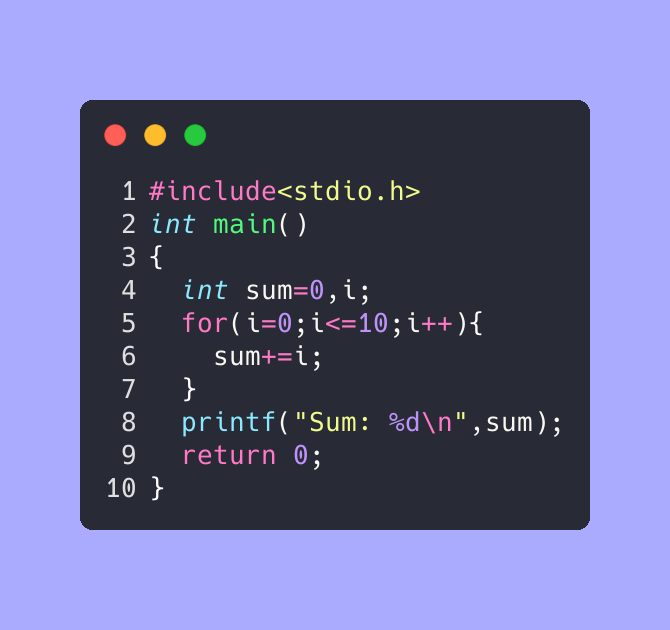
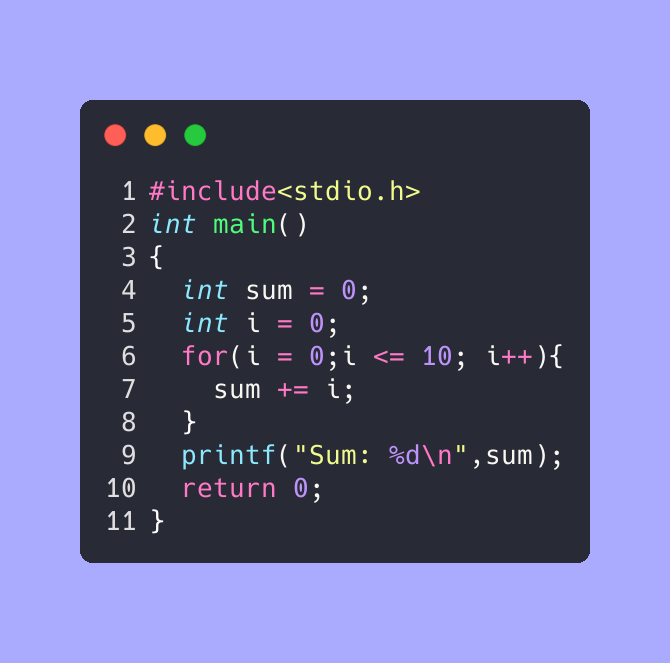
Update gcc_Optimization_Test

diff --git a/gcc_Optimization_Test/sumOfTen.c b/gcc_Optimization_Test/sumOfTen.c
@@ -1,9 +1,10 @@
 #include<stdio.h>
 int main()
 {
-  int sum=0,i;
-  for(i=0;i<=10;i++){
-    sum+=i;
+  int sum = 0;
+  int i = 0;
+  for(i = 0;i <= 10; i++){
+    sum += i;
   }
   printf("Sum: %d\n",sum);
   return 0;
